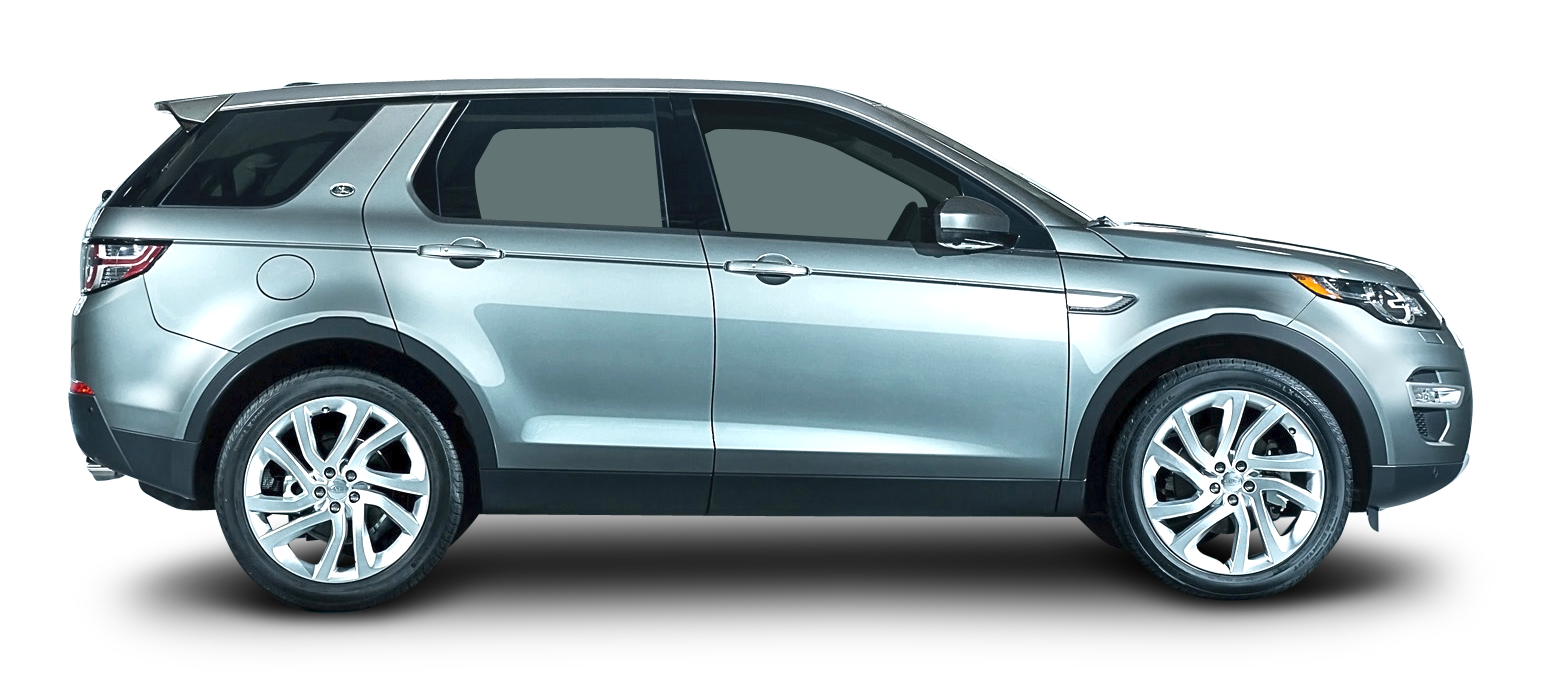
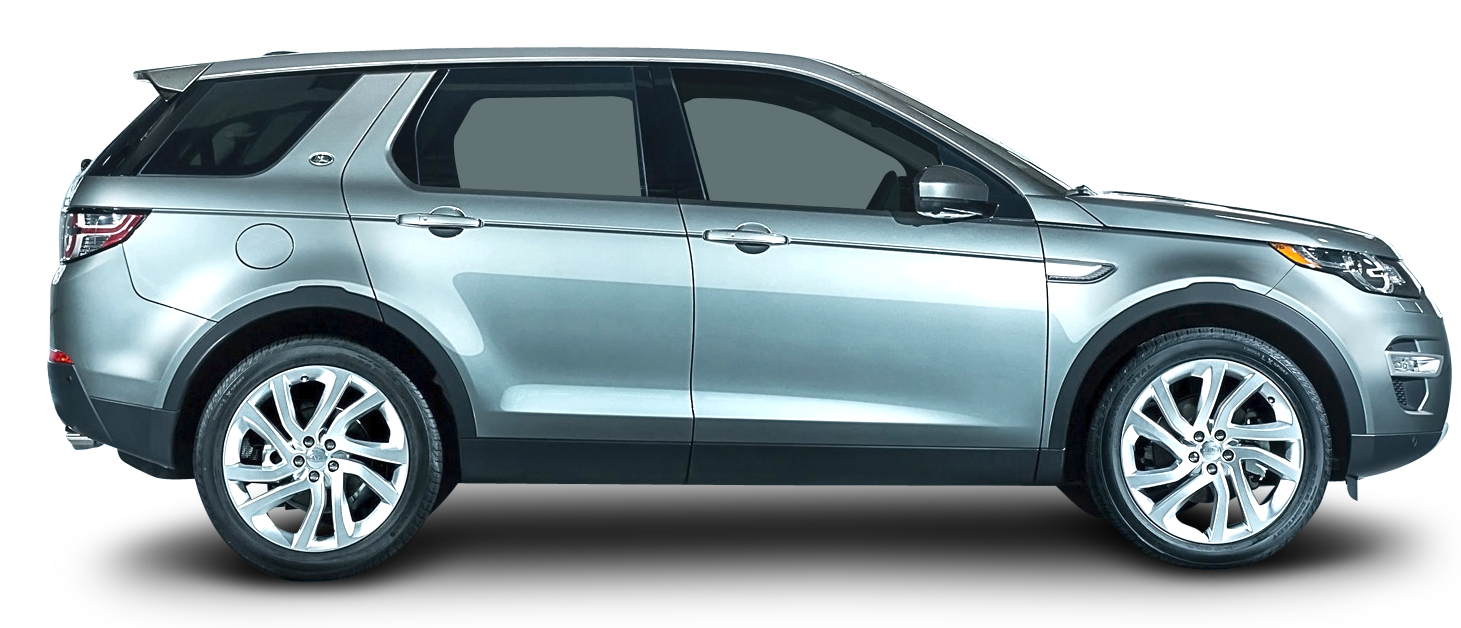
updated landing page

diff --git a/views/index.html b/views/index.html
@@ -2,14 +2,22 @@
 <html>
 <head>
 	<title>Union Bank Hackathon</title>
+
+	<meta charset="utf-8">
+	<meta http-equiv="X-UA-Compatible" content="IE-edge">
+	<meta name="viewport" content="width=device-width, initial-scale=1">
+	<meta name="description" content="">
+	<meta name="author" content="">
+
 	<link rel="stylesheet" type="text/css" href="assets/css/style.css">
 	<link rel="stylesheet" type="text/css" href="assets/css/bootstrap.min.css">
 	<link rel="stylesheet" type="text/css" href="assets/css/animate.css">
+	<link rel="stylesheet" type="text/css" href="assets/css/font-awesome.css">
 	<script type="text/javascript" href="assets/js/bootstrap.min.js"></script>
+
 </head>
 <body>
-
- 	 <nav class="navbar navbar-inverse navbar-fixed-top"">
+ 	 <nav class="navbar navbar-inverse navbar-fixed-top">
       <div class="container">
         <div class="navbar-header">
           <button type="button" class="navbar-toggle collapsed" data-toggle="collapse" data-target="#navbar" aria-expanded="false" aria-controls="navbar">
@@ -23,7 +31,7 @@
           <ul class="nav navbar-nav">
             <li class="active"><a href="#">Home</a></li>
             <li><a href="">Goal</a></li>
-            <li><a href="">Loan</a></li>
+            <li><a href="loan-page/index.html">Loan</a></li>
           </ul>
         </div>
       </div>
@@ -33,8 +41,8 @@
 	<div id="brand">
 		<div id="brand-name">
 			<br><br><br><br>
-			<span id="animationSandbox" style="display: block; margin-bottom: 5%;" class="bounceInLeft animated">
-			<h1>L E S T E R</h1>
+			<span id="animationSandbox" style="display: block; margin-bottom: 2%;" class="bounceInLeft animated">
+			<h1>L E S T E R</span></h1>
 			<p>Your personal budget buddy.</p>
 			</span>
 			<input type="button" value="Get started" name="btn-getStarted">
@@ -43,17 +51,18 @@
 	</div>
 
 
-	<div id="goal-1">
-		<div class="row">
+	<div class="container">
+		<div class="row" style="margin-bottom: 5%;">
 			<div class="col-md-4">
-				<h1>G O A L</h1>
-				<p>Keep an eye on your goals.</p>
+				<h1 style="color: #D45113; margin-bottom: 0; font-size: 300%; font-family: Montserrat;">G O A L</h1>
+				<p style="font-family: Segoe UI Light; color: #33333; font-size: 20px;">Keep an eye on your goals.</p>
 				<br>
 			</div>
 
 			<div class="col-md-8">
-				<span id="animationSandbox" style="display: block;" class="bounceInLeft animated">
+				<span id="animationSandbox" style="display: block; margin: 0;" class="bounceInLeft animated">
 				<img src="images/car.png" style="width: 80%; height: 40%;">
+				
 			</div>	
 		</div>
 	</div>
@@ -61,7 +70,9 @@
 	
 	<div id="goal-2">
 		<br>
-		<p> Intelligently helps you manage expenses.</p>
+		<p> Intelligently helps you manage expenses.<br>
+		
+		</p>
 	</div>
 
 	<footer>

diff --git a/views/loan-page/index.html b/views/loan-page/index.html
@@ -1,16 +1,16 @@
 <!DOCTYPE html>
 <html>
 <head>
-	<title>Loan</title>
-	<link rel="stylesheet" type="text/css" href="style.css">
-	<link rel="stylesheet" type="text/css" href="assets/css/bootstrap.min.css">
+  <title>Loan</title>
+  <link rel="stylesheet" type="text/css" href="style.css">
+  <link rel="stylesheet" type="text/css" href="assets/css/bootstrap.min.css">
   <link rel="stylesheet" type="text/css" href="assets/css/animate.css">
-	<script type="text/javascript" href=assets/js/bootstrap.min.css></script>
+  <script type="text/javascript" href=assets/js/bootstrap.min.css></script>
 </head>
 
 <body>
 
-	<nav class="navbar navbar-inverse navbar-fixed-top">
+  <nav class="navbar navbar-inverse navbar-fixed-top">
       <div class="container">
         <div class="navbar-header">
           <button type="button" class="navbar-toggle collapsed" data-toggle="collapse" data-target="#navbar" aria-expanded="false" aria-controls="navbar">
@@ -31,19 +31,19 @@
       </div>
     </nav>
 
-	<div id="container">
+  <div id="container">
     <span id="animationSandbox" style="display: block;" class="bounceInLeft animated">
-		<h1>Request a <span style="color: #D45113;">loan.</span></h1>
-		<p>This will be deducted from your goal.</p>
+    <h1>Request a <span style="color: #D45113;">loan.</span></h1>
+    <p>This will be deducted from your goal.</p>
 
-		<form>
-			<p> Visa number : &nbsp;<input type="text" name="visa-no"></p>
-			<p> Date: &nbsp;<input type="date" name="date" value="mm/dd/yy"></p>
-			<p> CVV: &nbsp;<input type="text" name="ccv"></p>
+    <form>
+      <p> Visa number : &nbsp;<input type="text" name="visa-no"></p>
+      <p> Date: &nbsp;<input type="date" name="date" value="mm/dd/yy"></p>
+      <p> CVV: &nbsp;<input type="text" name="ccv"></p>
 
-			<input type="button" name="btn-submit" value="Submit">
-		</form>
-	</div>	
+      <input type="button" name="btn-submit" value="Submit">
+    </form>
+  </div>  
 
 
 </body>

diff --git a/views/assets/css/style.css b/views/assets/css/style.css
@@ -6,7 +6,7 @@ body {
 #brand {
 	margin: 0 0 5%;
 	width: 100%;
-	height: 700px;
+	height: 350px;
 	background-color: #087CA7;
 }
 #brand-name {
@@ -29,13 +29,13 @@ body {
 }
 
 input[type=button] {
-	border: 3px solid white;
+	border: 2px solid white;
 	border-radius: 10px;
 	color: white;
 	background-color: #D45113;
-	width: 40%;
+	width: 25%;
 	font-family: Montserrat;
-	height: 100px;
+	height: 70px;
 	font-size: 20px;
 }
 
@@ -44,7 +44,7 @@ input[type=button]:hover {
 }
 
 #goal-1 {
-	margin: 5% 0 5% 5%;
+	/*margin: 0% 0 5% 5%;*/
 	height: 300px;
 	width: 100%;
 }
@@ -82,7 +82,7 @@ header {
 
 footer {
 	width: 100%;
-	height: 250px;
+	height: 300px;
 	background-color: #333333;
 }
 
